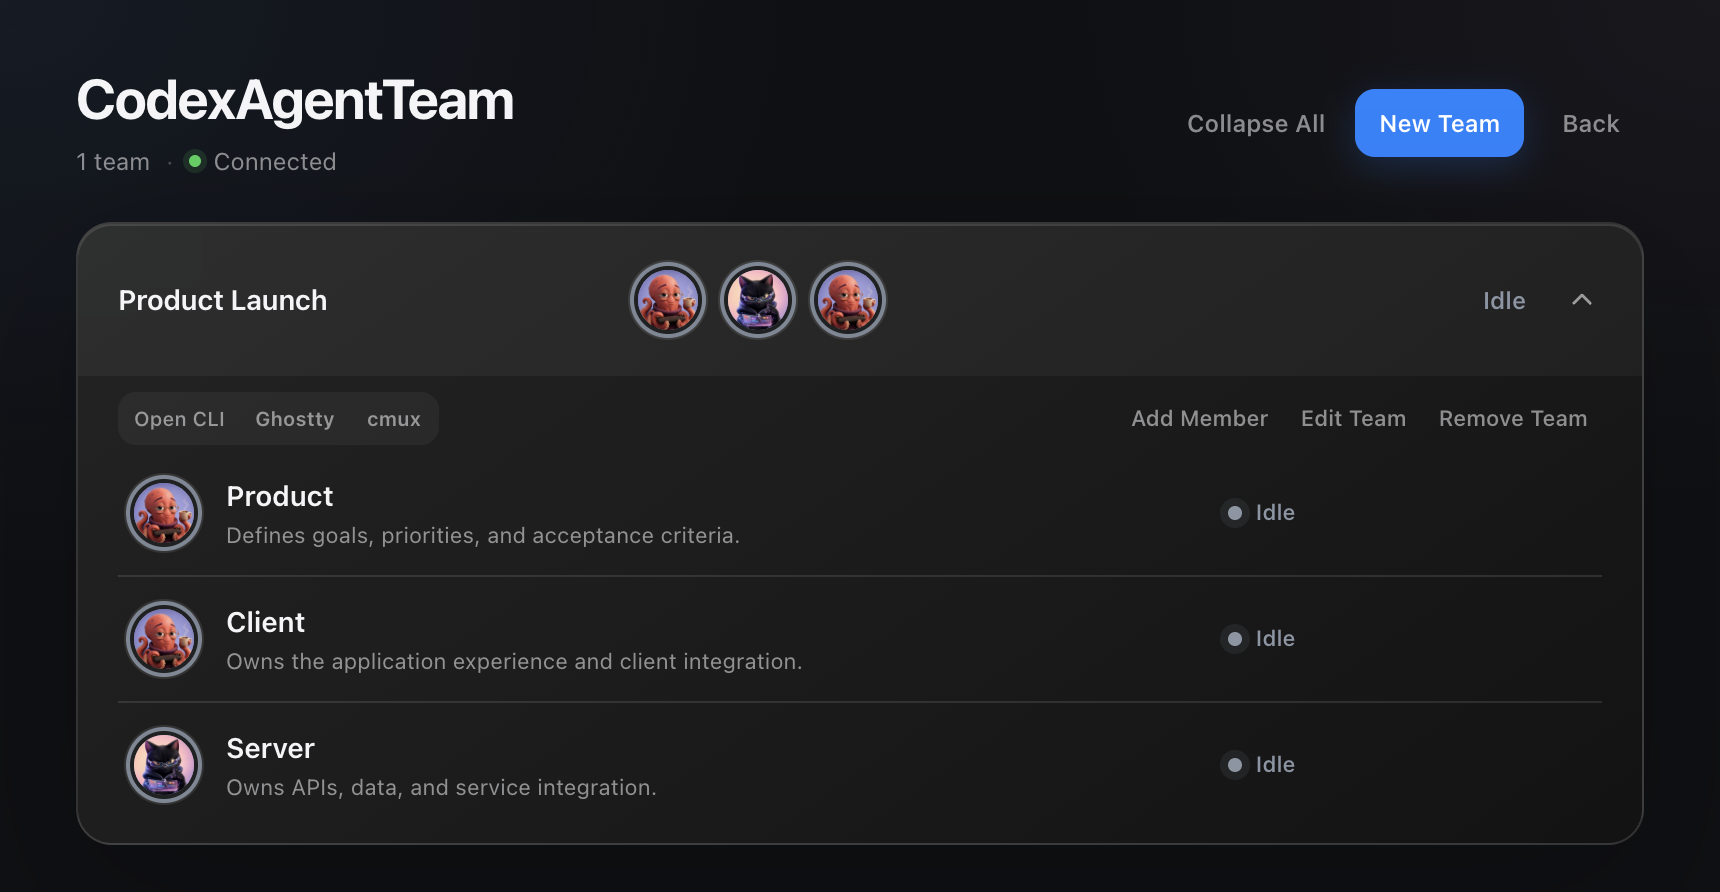
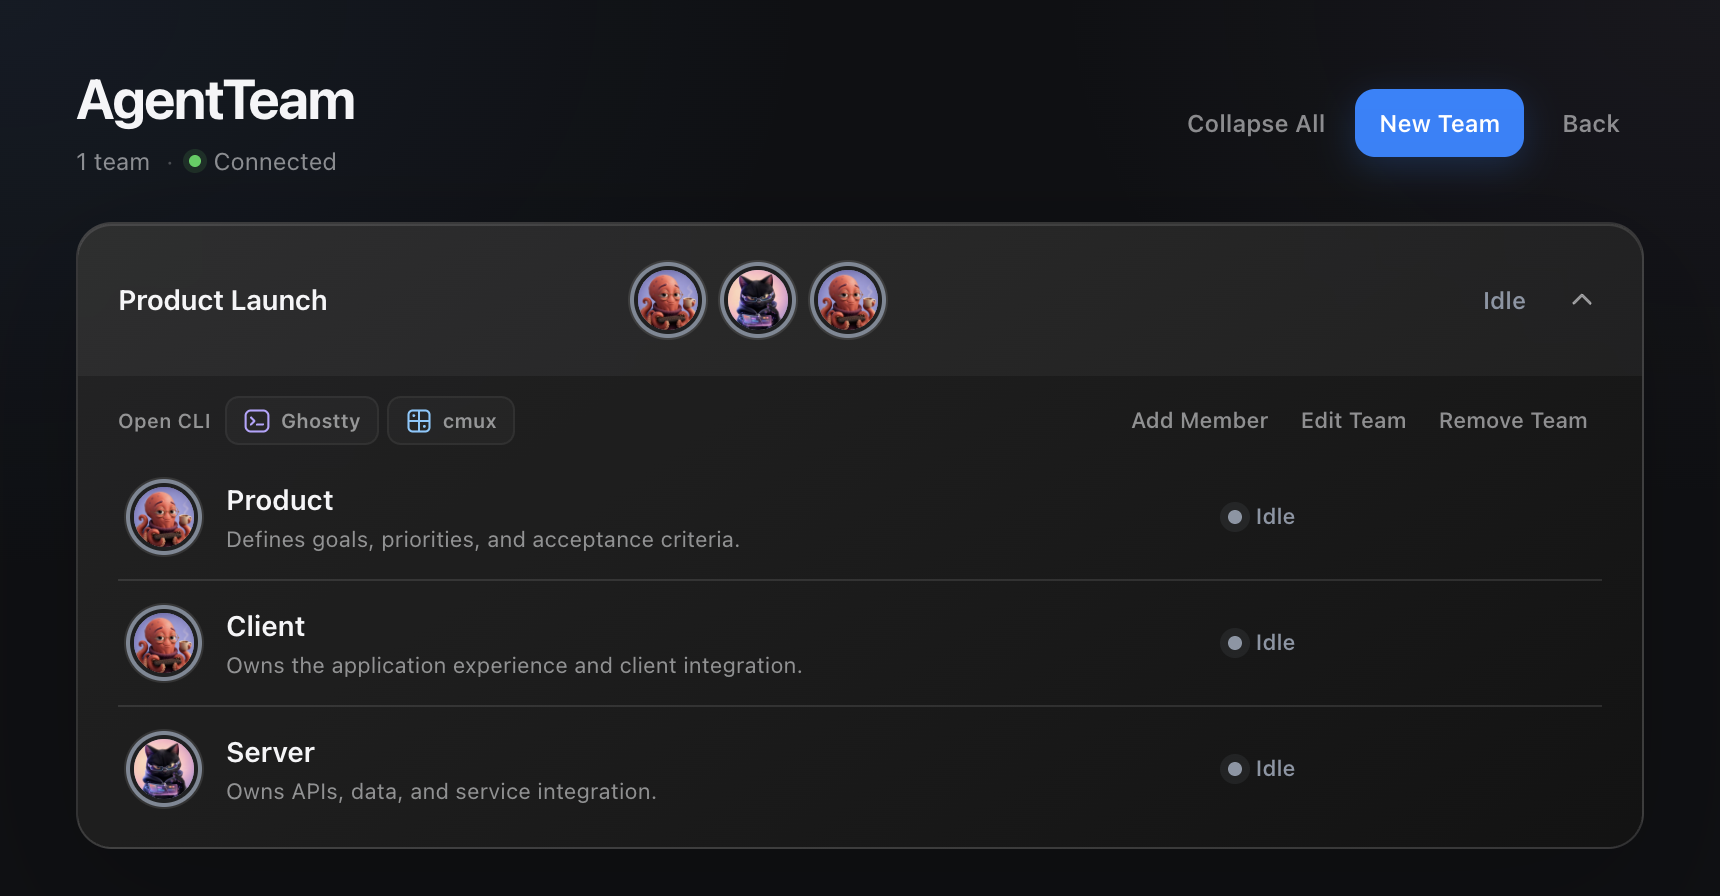
fix: refine AgentTeam terminal integrations

diff --git a/README.md b/README.md
@@ -22,7 +22,7 @@ CodexAgentTeam organizes native Codex conversations into durable teams. Each mem
 > [!IMPORTANT]
 > CodexAgentTeam is an experimental macOS preview. Native Threads and App Server events remain authoritative; the global Desktop entry currently depends on a small, fail-closed CDP adapter.
 
-![CodexAgentTeam Dashboard showing one Team and its native Codex conversation members](./docs/assets/dashboard.png)
+![AgentTeam Dashboard showing one Team and its native Codex conversation members](./docs/assets/dashboard.png)
 
 ## What you get
 
@@ -54,13 +54,13 @@ Restart Codex and create a new conversation so the plugin Skills are discovered.
 
 ### Launch CodexAgentTeam
 
-Invoke `$codex-agent-team:launch` and ask to launch CodexAgentTeam. The Skill performs compatibility checks, then starts a separate Codex window with a **CodexAgentTeam** entry in its global navigation. Your current Codex is never closed or restarted by the plugin.
+Invoke `$codex-agent-team:launch` and ask to launch CodexAgentTeam. The Skill performs compatibility checks, then starts a separate Codex window with an **AgentTeam** entry in its global navigation. Your current Codex is never closed or restarted by the plugin.
 
 Once the CodexAgentTeam window is ready, use **Command-Q** to quit the current ordinary Codex and continue in CodexAgentTeam. Closing the CodexAgentTeam Codex with **Command-Q** ends its temporary official App Server and releases its member Threads. Teams, member directories, and native Threads remain available the next time you open CodexAgentTeam or ordinary Codex.
 
 ### Create a Team
 
-1. Open **CodexAgentTeam** from the global navigation.
+1. Open **AgentTeam** from the global navigation.
 2. Create a Team.
 3. Add members with a name, responsibility, avatar, initial model settings, and an optional Git source.
 4. Click a member to enter its original Codex conversation.
@@ -117,6 +117,8 @@ CodexAgentTeam does not modify Codex SQLite, rollout files, `config.toml`, authe
 ## Optional terminal view
 
 From the Dashboard, open a Team in **Ghostty** or **cmux**. CodexAgentTeam resumes the same native member Threads in one tab or workspace with split panes and member titles. This is another view over the Team, not another session model.
+
+Terminal availability is detected once when the Runtime starts; applications that are not installed are shown disabled. cmux defaults to accepting control commands only from processes it started. To use the Dashboard cmux button from Codex, start cmux with `CMUX_SOCKET_MODE=allowAll`; this allows other processes running as the same macOS user to access the cmux control socket. Use Ghostty if you do not want that broader local access mode.
 
 ## Safety and compatibility
 

diff --git a/SECURITY.md b/SECURITY.md
@@ -21,6 +21,7 @@ Include the Codex Desktop version, macOS version, reproduction steps, and whethe
 - Do not place credentials in remote Git URLs. Git authentication remains the user's responsibility and may be surfaced by Git itself.
 - Avatar input is size- and signature-checked, copied under the CodexAgentTeam data root, and never rendered from an arbitrary external path.
 - Member work uses Codex's native approval behavior. CodexAgentTeam does not auto-approve tools or file access.
+- Optional cmux control from the Dashboard requires cmux's `allowAll` socket mode because the Team Runtime is not a cmux child process. That mode allows other processes running as the same macOS user to reach cmux; Ghostty does not require this setting.
 
 Loopback ports reduce accidental network exposure; they are not an authentication boundary against another process running as the same macOS user. Do not run untrusted local software while CodexAgentTeam is active.
 

diff --git a/CHANGELOG.md b/CHANGELOG.md
@@ -11,3 +11,4 @@
 - Run in a separate Codex Desktop with an isolated profile and one temporary official Codex App Server.
 - Preserve native conversations, Team data, Member Directories, worktrees, branches, and avatars when a run ends or a member is removed.
 - Fail closed when required experimental Codex Desktop capabilities are unavailable.
+- Use the shorter **AgentTeam** label for the in-app projection, detect installed terminal applications once per Runtime, and distinguish Ghostty and cmux with dedicated controls.
